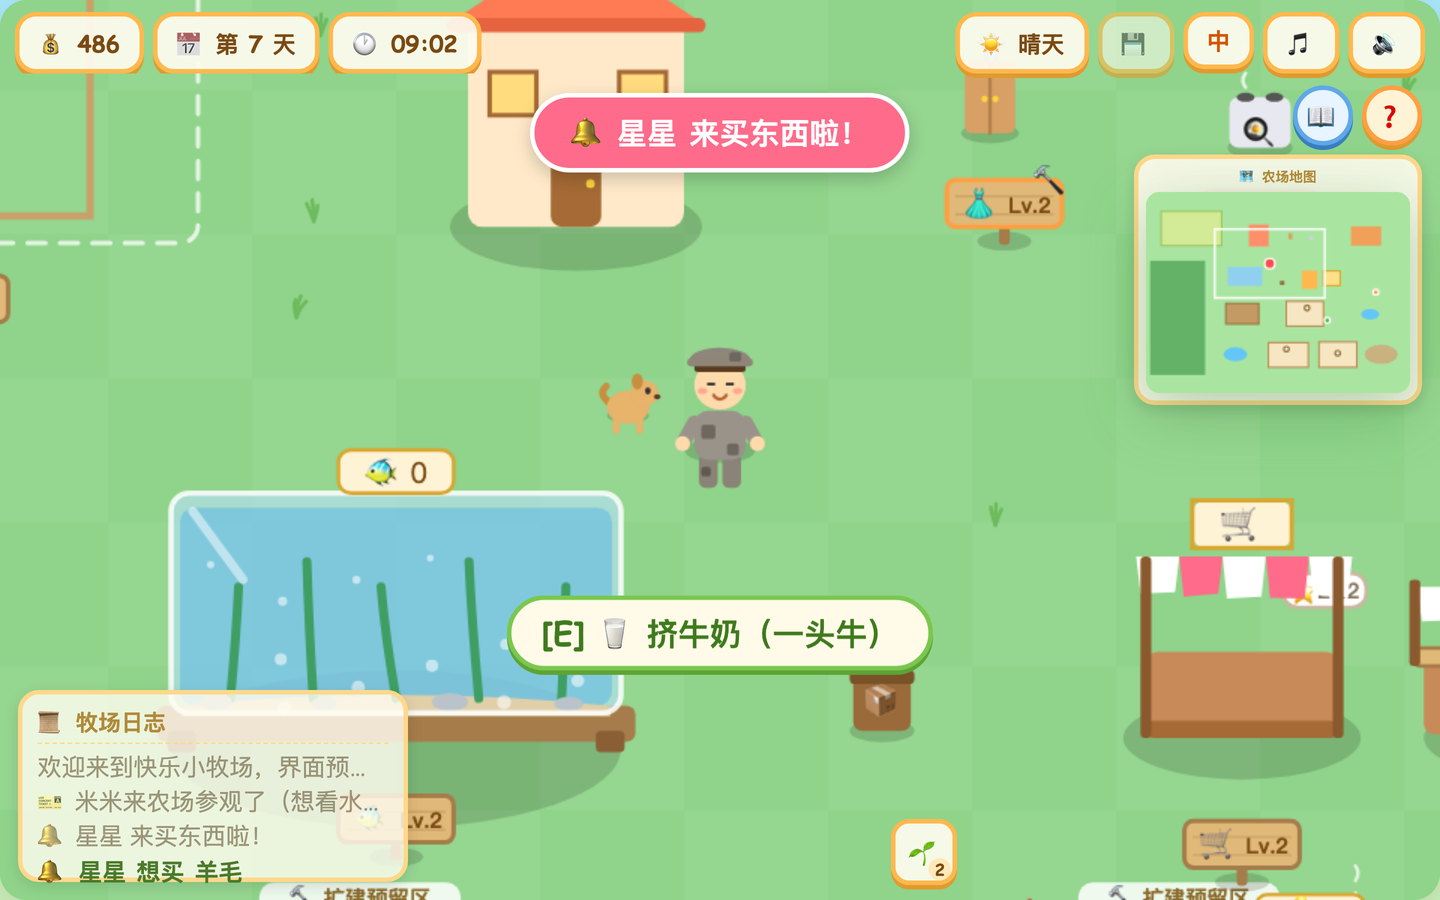
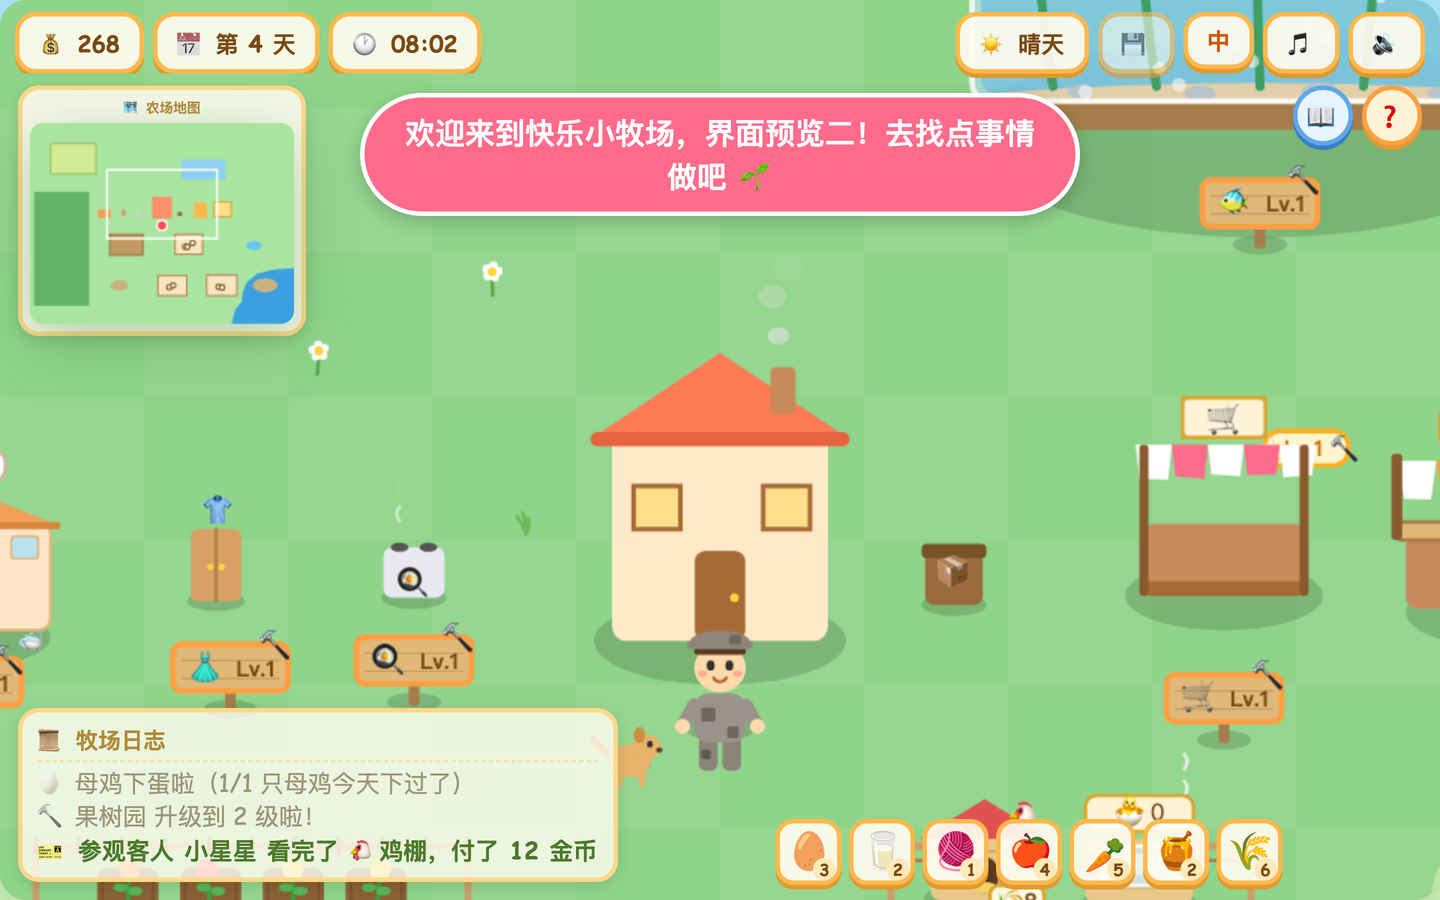
🗺 小地图挪到左上角 + 不再显示扩建预留区 / 白色虚线框
- 小地图从右上角搬到**左上角**（金币 / 天数 / 时间那一排下面），新增 #top-left 容器；
  📖 图鉴 / ❓ 帮助留在右上角不动。触摸版左上角是牧场日志，所以小地图自动待在右上角
- **所有设施的「扩建预留区」和白色虚线框都不再画出来**：去掉果园 / 鸡棚 / 羊棚 / 牛棚 /
  宠物家 / 农田 / 水族箱 7 处 drawExpandOutline 调用（drawExpandOutline 函数留着备用）。
  扩建位置照旧排好、互不重叠，升级之后占地直接变大，只是地图上不提前圈出来
- 验证：小地图实测在 (12,57)、在左半边且上半边，和 HUD 左右两栏 / 日志 / 图鉴 / 帮助都不重叠；
  1 级时沿着 7 个「本来会画框」的矩形四条边采样，白色虚线像素 0.0%（采样时避开小窝自己的白线条）；
  触摸版小地图在右上角、不和日志重叠；升级 / 面板 / 存读档 / 睡前任务都正常，控制台 0 报错

diff --git a/game.js b/game.js
@@ -6084,10 +6084,9 @@ function render() {
   for (let fx = fRect.x; fx <= fRect.x + fRect.w; fx += 24) {
     ctx.beginPath(); ctx.moveTo(fx, fRect.y - 4); ctx.lineTo(fx, fRect.y + 4); ctx.stroke();
   }
-  // 农田没有等级，直接把 3 级的大范围画出来当「预留升级区」
-  drawExpandOutline(ctx, FARM_RECTS[MAX_LV - 1], t, TXT('expandArea'));
+  // 农田没有等级（预留区也不再画出来了）
 
-  // 果树园：栅栏 + 「下次扩建到这里」的虚线预留区
+  // 果树园：栅栏
   const oRect = orchardRect();
   ctx.strokeStyle = '#c9a06a'; ctx.lineWidth = 4; ctx.lineCap = 'round';
   ctx.strokeRect(oRect.x, oRect.y, oRect.w, oRect.h);
@@ -6095,15 +6094,7 @@ function render() {
   for (let fx = oRect.x; fx <= oRect.x + oRect.w; fx += 26) {
     ctx.beginPath(); ctx.moveTo(fx, oRect.y - 4); ctx.lineTo(fx, oRect.y + 4); ctx.stroke();
   }
-  if (lvOf('orchard') < MAX_LV) {
-    drawExpandOutline(ctx, ORCHARD_RECTS[lvOf('orchard')], t, TXT('expandArea'));
-  }
-  // 其它设施的扩建预留区（围栏 / 水坑 / 宠物房间 / 水族箱 / 商店摊位）
-  if (lvOf('coop') < MAX_LV)    drawExpandOutline(ctx, PEN_RECTS.chicken[lvOf('coop')], t, TXT('expandArea'));
-  if (lvOf('sheep') < MAX_LV)   drawExpandOutline(ctx, PEN_RECTS.sheep[lvOf('sheep')], t, TXT('expandArea'));
-  if (lvOf('cow') < MAX_LV)     drawExpandOutline(ctx, PEN_RECTS.cow[lvOf('cow')], t, TXT('expandArea'));
-  if (lvOf('petroom') < MAX_LV) drawExpandOutline(ctx, PETROOM_RECTS[lvOf('petroom')], t, TXT('expandArea'));
-  if (lvOf('tank') < MAX_LV)    drawExpandOutline(ctx, tankRect(lvOf('tank') + 1), t, TXT('expandArea'));
+  // ★ 所有设施的「扩建预留区 / 白色虚线框」都不再画出来（升级照样能升，只是地图上不提前画框）
 
   // 池塘（没解锁的画成干土坑 + 🔒）；大海水蓝洞在大海里，画成更深的蓝洞
   for (const pond of PONDS) {

diff --git a/index.html b/index.html
@@ -314,15 +314,19 @@
         </div>
       </div>
 
-      <!-- 右上角：图鉴 / 帮助 + 小地图 -->
+      <!-- 左上角：小地图 -->
+      <div id="top-left">
+        <div id="minimap-box">
+          <div id="minimap-head" data-i18n="minimapTitle">🗺 农场地图</div>
+          <canvas id="minimap" width="176" height="134"></canvas>
+        </div>
+      </div>
+
+      <!-- 右上角：图鉴 / 帮助 -->
       <div id="top-right">
         <div class="top-btn-row">
           <button id="btn-book" title="动物图鉴" data-i18n-title="bookTitle">📖</button>
           <button id="btn-help" title="帮助" data-i18n-title="helpTitle">❓</button>
-        </div>
-        <div id="minimap-box">
-          <div id="minimap-head" data-i18n="minimapTitle">🗺 农场地图</div>
-          <canvas id="minimap" width="176" height="134"></canvas>
         </div>
       </div>
     </div>

diff --git a/style.css b/style.css
@@ -409,7 +409,15 @@ body.touch #prompt { left: 50%; max-width: 94%; bottom: 128px; }
 .char-row { align-items: center; }
 .char-label { font-size: 17px; font-weight: bold; color: #b08a3a; margin-right: 4px; }
 
-/* ---------- 图鉴 / 帮助按钮 + 小地图（统一放在右上角） ---------- */
+/* ---------- 小地图（左上角，HUD 那一排下面） ---------- */
+#top-left {
+  position: absolute; left: 12px; top: calc(62px * var(--ui-scale) + 14px); z-index: 26;
+  pointer-events: none;
+}
+/* 触摸版：左上角是牧场日志，小地图就待在右上角 */
+body.touch #top-left { left: auto; right: 12px; }
+
+/* ---------- 图鉴 / 帮助按钮（右上角） ---------- */
 #top-right {
   position: absolute; right: 12px; top: calc(62px * var(--ui-scale) + 14px); z-index: 26;
   display: flex; flex-direction: column; align-items: flex-end; gap: 6px;

diff --git a/sprites.js b/sprites.js
@@ -1838,6 +1838,7 @@ function drawPond(ctx, x, y, w, h, t, label, locked, needLv, deep) {
 
 // 「以后会扩到这里」的虚线框：1、2 级时把下一次扩建的范围画出来，
 // 地图上就一眼能看出「这里留着地方给它长大」。
+// 以前用来画「扩建预留区」的白色虚线框：现在地图上不再画预留区了（函数留着备用）
 function drawExpandOutline(ctx, rect, t, text) {
   if (!rect) return;
   ctx.save();

diff --git a/README.md b/README.md
@@ -32,7 +32,7 @@ python3 -m http.server 8000
 | 系统 | 说明 |
 |---|---|
 | ✏ 取名字 | 开始游戏前先写下自己的名字（最多 8 个字）；打开页面时会**随机生成一个三字以内的名字**（比如「小糖」「豆豆」），直接点开始就能玩。**一台电脑上每个名字一份独立存档**，兄弟姐妹各玩各的互不影响 |
-| 🔨 设施升级 | **十个设施各自 1~3 级**，升级后**地图上的占地真的变大**，能养 / 能钓 / 能做 / 能买的东西也更多。**每栋建筑正下方都有一块木牌**（十个设施完全统一），走到木牌前面按 E 就会「和木牌说话」：弹出来的面板上先写清楚**这栋建筑现在的状况**（养了几只 / 种了几棵 / 能做几道菜 / 开放到第几档…），再写**升级以后会变成什么样**，最后是升级按钮。木牌上写着 `Lv.N`，钱够的时候会闪一个小 🔨。地图上**已经预留好了每次扩建的位置**：1、2 级时会用**白色虚线框**画出「下次会扩到这里」（见下方「🔨 设施升级」表） |
+| 🔨 设施升级 | **十个设施各自 1~3 级**，升级后**地图上的占地真的变大**，能养 / 能钓 / 能做 / 能买的东西也更多。**每栋建筑正下方都有一块木牌**（十个设施完全统一），走到木牌前面按 E 就会「和木牌说话」：弹出来的面板上先写清楚**这栋建筑现在的状况**（养了几只 / 种了几棵 / 能做几道菜 / 开放到第几档…），再写**升级以后会变成什么样**，最后是升级按钮。木牌上写着 `Lv.N`，钱够的时候会闪一个小 🔨。地图上**已经排好了每次扩建的位置**（互不重叠），只是**地图上不再画白色虚线框**，升级之后占地直接长大 |
 | 🧒 纸娃娃换装 | 男孩/女孩可选，六个部位自由搭配（每个部位都按衣橱等级**分批开放**）：**帽子 10 件 · 头饰 12 件 · 裙子 12 件 · 上衣 9 件 · 裤子 10 件 · 鞋子 12 件**。初始只有「**破帽子 + 破衣服 + 破裤子**」，光着脚、不戴头饰也不穿裙子 |
 | 👗 开放式衣帽间 | 买到的衣服**自动挂进衣帽间**（买完会提示「已经挂进衣橱啦」）；衣帽间做成了**开放式衣帽间**的样子：左边一面试衣镜（**实时把角色画出来**），右边是分层的**挂衣杆（上衣/裙子）、帽子架、头饰架、抽屉（裤子）、鞋架**。**穿上裙子就不用再穿上衣和裤子**，回头选上衣或裤子时裙子会自动脱掉 |
 | 👧 女生的裙子与头饰 | **12 种裙子**：粉粉连衣裙、蓝点点裙、柠檬黄裙、牛仔背带裙、草莓小裙、向日葵裙、红格纹裙、彩虹蛋糕裙、公主蓬蓬裙、星空纱裙、蝴蝶仙子裙、白雪婚纱裙；**12 种漂亮头饰**：珍珠蝴蝶结、小花发夹、爱心发夹、星星发卡、彩虹发带、向日葵发卡、樱桃发夹、兔耳发箍、猫耳发箍、蝴蝶发饰、独角兽角、公主皇冠。**头饰和帽子可以同时戴**（小发夹画在帽子上面，发箍 / 耳朵 / 独角兽角画在帽子下面） |
@@ -78,12 +78,12 @@ python3 -m http.server 8000
 | 📖 动物图鉴 | **右上角**的 📖 按钮可查看「🦁 动物园」和「🐟 海洋馆」两个列表，动画图标显示收集进度（同一排的 ❓ 是帮助） |
 | 🎣 钓鱼 | **5 档大小水波纹**对应不同渔获，每档 3 种，共 **15 种鱼和海洋生物**（小鱼/小虾/贝壳 → 金鱼/螃蟹/鱿鱼 → 河豚/章鱼/龙虾 → 海龟/鳄鱼/海豹 → 海豚/鲨鱼/鲸鱼），水波纹越大钓到的越值钱；**鱼竿握在手里**，鱼线从竿尖甩出 |
 | 👦 换角色 | 衣帽间里可随时切换 **男孩 / 女孩**，宠物可换成 **小狗 / 小猫 / 小鸭 / 小鹅** |
-| 🎡 庭院装饰 | 商店可买 11 种装饰：大风车、圣诞树、樱花树、小喷泉、稻草人、长椅、路灯、花坛、栅栏、蘑菇、石头 —— 买好后走到喜欢的位置放下，风车会转、喷泉会喷水、樱花会飘落（按商店等级分三批开放）。地图上**特意留了 4 块浅色草坪空地**（边上有小花）就是给装饰留的；**白色虚线框里的「升级预留地」也照样能摆**（现在还是空草地）。**已经盖好的房子 / 围栏 / 农田 / 水族箱 / 水池上面放不下**（会提示「这里放不下，去那块空着的草地上试试～」）。★ 等以后真的升级扩建、建筑把预留地圈进去时，**压在上面的装饰会自动画在最外层**（在房子 / 围栏 / 树上面），不会被挡住、也不会消失 |
+| 🎡 庭院装饰 | 商店可买 11 种装饰：大风车、圣诞树、樱花树、小喷泉、稻草人、长椅、路灯、花坛、栅栏、蘑菇、石头 —— 买好后走到喜欢的位置放下，风车会转、喷泉会喷水、樱花会飘落（按商店等级分三批开放）。地图上**特意留了 4 块浅色草坪空地**（边上有小花）就是给装饰留的；**升级前那些「以后会被圈进去」的空地也能先摆**（现在还是空草地，不用管以后会扩到哪里）。**已经盖好的房子 / 围栏 / 农田 / 水族箱 / 水池上面放不下**（会提示「这里放不下，去那块空着的草地上试试～」）。★ 等以后真的升级扩建、建筑把预留地圈进去时，**压在上面的装饰会自动画在最外层**（在房子 / 围栏 / 树上面），不会被挡住、也不会消失 |
 | 🔊 音效 | 35+ 种合成音效覆盖所有动作；动物会随机叫，摸它还会回应你 |
 | 🛴 交通工具 | 商店新增「🛴 交通」页，可买 **滑板车（速度 ×1.55）**、**自行车（×1.95）**、**摩托车（×2.5）**；买回来走到**小屋旁的停车架**按 E 就能骑上（再按一次停下），骑上走得飞快 —— 车头永远朝着前进方向，不会倒着走；买过的车和正在骑的车都会存档（按商店等级逐个开放） |
 | 🎵 音乐 | 轻柔的背景音乐（可单独开关），和音效开关分开 |
-| 🗺 小地图 | **右上角有一张农场小地图**：森林 / 果园 / 农田 / 三个棚舍 / 各个水坑 / 房子用不同颜色画出来，**中间的红点是主角**，橙点是来买东西的客人、绿点是参观客人，白框是**现在画面能看到的那一块**。地图是实时画的，动物走动、水坑解锁、设施升级都会跟着变 |
-| 🖥 界面摆放 | **📖 图鉴 / ❓ 帮助搬到了右上角**（挨着小地图，从右下角挪上来的）；**📜 牧场日志放到左下角**（加宽到 400、高度加了约 3 行、长句自动换行）；物品栏排在日志右边那块空地上（东西多的时候最多 3 行），交互提示条也挪到日志右边居中，三者互不重叠。手机 / 平板上左下角是摇杆，日志就自动留在左上角，图鉴和帮助继续用右下角的触摸键 |
+| 🗺 小地图 | **左上角（状态栏下面）有一张农场小地图**：森林 / 果园 / 农田 / 三个棚舍 / 各个水坑 / 房子用不同颜色画出来，**中间的红点是主角**，橙点是来买东西的客人、绿点是参观客人，白框是**现在画面能看到的那一块**。地图是实时画的，动物走动、水坑解锁、设施升级都会跟着变 |
+| 🖥 界面摆放 | **🗺 小地图搬到左上角**（状态栏下面）、**📖 图鉴 / ❓ 帮助留在右上角**；**📜 牧场日志放到左下角**（加宽到 400、高度加了约 3 行、长句自动换行）；物品栏排在日志右边那块空地上（东西多的时候最多 3 行），交互提示条也挪到日志右边居中，三者互不重叠。手机 / 平板上左下角是摇杆，日志留在左上角、**小地图自动待在右上角**（免得和日志撞车），图鉴和帮助继续用右下角的触摸键 |
 | 🔍 看得更清楚 | **所有文字都调大了**（手机上也很好读）；画面整体放大 1.2 倍，**人物和动物都更大**；物品栏里的东西多了会自动缩小格子，永远只占一行 |
 
 ## 🗺 农场布局（四排）
@@ -92,9 +92,9 @@ python3 -m http.server 8000
 
 | | 从左往右 |
 |---|---|
-| **第一排** | 🍎 果园（预留升级区）· 🐠 **大水族箱**（果园右边的整片地方都是它的，1 级 320 宽 → 3 级 **860 宽**，升级预留区也用白色虚线框画出来） |
+| **第一排** | 🍎 果园 · 🐠 **大水族箱**（果园右边的整片地方都是它的，1 级 320 宽 → 3 级 **860 宽**） |
 | **第二排** | 🌳 森林 · 🐾 宠物家（小房子）· 👗 衣柜 · 🍳 厨房 · 🏠 主角家 · 📦 卖货箱 · 🛒 商店 · 💰 销售门面（**右边是客人排队的队伍**） |
-| **第三排** | 🌳 森林 · 🌱 农田（预留升级区）· 🐔 鸡棚（预留升级区）· 💧 小水坑 |
+| **第三排** | 🌳 森林 · 🌱 农田 · 🐔 鸡棚 · 💧 小水坑 |
 | **第四排** | 🌳 森林 · 💧 中水坑 · 🐑 羊棚 · 🐄 牛棚 · 💧 大海水蓝洞 → **右下角是一片连着大海的蓝色海水** |
 
 - **森林**是最左边那一列，从第二排一直铺到第四排，蜂蜜和蘑菇都在里面。
@@ -102,14 +102,15 @@ python3 -m http.server 8000
 - **🐠 大水族箱占掉第一排右边一整片**：1 级 320×130、2 级 570×190、3 级 **860×250**（比画面还宽），站在它**前面一整条边**按 E 都能看鱼、放鱼；里面的水草、石头、气泡、鱼都会跟着缸变大。
 - **右下角是大海**：从大海水蓝洞一路铺到地图的右下角（岸线是波浪形的沙滩），看起来是通到外面的海。走出去会被轻轻推回岸上，装饰也不能摆进海里。
 - 地图上**留了 4 块浅色草坪空地**给小朋友摆装饰；房子之间也还有空草地可以放小摆件。
-- **白色虚线框里的升级预留地也可以先摆装饰**；升级扩建把地圈进去以后，**装饰会画在最外层**（压在房子 / 围栏上面），不会看不见 —— 见 `assets/verify/decor-on-top.png` 的上下对比图。
+- **还没有盖到的地方都可以先摆装饰**；升级扩建把地圈进去以后，**装饰会画在最外层**（压在房子 / 围栏上面），不会看不见 —— 见 `assets/verify/decor-on-top.png` 的上下对比图。
+- **地图上不画扩建预留区、也不画白色虚线框**（升级一样能升，只是不提前圈出来）。
 - **升级木牌一律放在建筑外面**：围栏的牌子挂在围栏**底下**（不在动物活动的范围里）、水族箱的牌子在玻璃箱下面、果园 / 宠物房间的牌子也在各自围栏外面；而且牌子按**3 级扩到最大时**的位置留好，升级以后也不会被圈进围栏里。
 - 各建筑之间**互不重叠**（按 3 级最大范围算），每条排队位 / 每块木牌也都不压在建筑上：这些都用无头浏览器跑了几何检查。
 
 ## 🔨 设施升级（十个设施 × 三级）
 
 每个设施都是 **1 级 → 2 级 → 3 级**。升级之后 **① 地图上的占地真的变大**（每一次扩建的位置都提前排好了，互不重叠）
-**② 容量 / 能买的东西变多**。地图上 1、2 级时会用**白色虚线框**把「下次扩建的范围」画出来。
+**② 容量 / 能买的东西变多**。地图上**不提前画扩建预留区**，升级之后占地直接变大。
 
 | 设施 | 1 级 | 2 级 | 3 级 | 升级费用 |
 |---|---|---|---|---|
@@ -173,7 +174,7 @@ python3 -m http.server 8000
 
 1. **🔨 十个设施都能升级了**（鸡巢 / 羊棚 / 牛棚 / 果树园 / 水坑 / 商店 / 水族箱 / 厨房 / 衣橱 / 宠物房间），
    每个 1~3 级；**升级后地图上的占地真的变大**，能养 / 能钓 / 能做 / 能买的东西跟着变多。
-   地图上**提前预留好了每次扩建的位置**，1、2 级时还会用白色虚线框把「下次会扩到这里」画出来。
+   地图上**提前排好了每次扩建的位置**（互不重叠），但不画虚线预留框。
 2. **👗 衣橱变成了「开放式衣帽间」**：左边一面试衣镜（实时把角色画出来），右边是挂衣杆 / 帽子架 / 头饰架 / 抽屉 / 鞋架；
    **买到的衣服自动挂进去**。
 3. **🎀 新增女生的裙子与头饰**：**12 种裙子 + 12 种漂亮头饰**（还有 12 种鞋子），全部**按衣橱等级逐级开放**；
@@ -220,6 +221,9 @@ python3 -m http.server 8000
     老存档读进来会自动把主角送回小屋门口、动物送回自己的棚舍
     （存档版本 v1 → v2）。
 
+21. **🗺 小地图挪到左上角 + 不再显示扩建预留区**：小地图从右上角搬到**左上角**（金币 / 天数 / 时间那一排下面），
+    📖 图鉴 / ❓ 帮助留在右上角；**所有设施的「扩建预留区」和白色虚线框都不再画出来**了
+    （订好了的扩建位置照样存在，升级之后占地直接变大，只是地图上不提前圈出来）。
 20. **🧍 客人排队时间大幅加长**：以前客人等 25 秒就失望地走了，现在**只要天还没黑就一直排在队伍里等，
     最长可以等到当天结束（20:00）**；天黑了还在排队的客人今天先回家、第二天再来，天黑之后也不会再来新客人。
     实测 10:00 来的客人一直等到 19:59 都还在，20:00 才走；成交后队伍照样自动往前挪一格。
@@ -227,13 +231,13 @@ python3 -m http.server 8000
     **长句子不再用省略号截断，会自动折行**；内容底部对齐，写满时先把最旧的挤出去、**最新的一条永远看得见**。
     物品栏和交互提示条跟着让位到日志右边，实测三者互不重叠、也都没出画面。
 18. **🎡 升级预留地也能摆装饰，扩建后装饰画在最外层**：
-    白色虚线框里的升级预留地现在**是空草地、可以摆装饰**（以前留的边距太大，预留地几乎摆不下东西，现在只留一点点，
+    升级预留地（那时地图上还画着白色虚线框）现在**是空草地、可以摆装饰**（以前留的边距太大，预留地几乎摆不下东西，现在只留一点点，
     能摆的位置从 1152 处涨到 1408 处）；等设施升级扩建、建筑把预留地圈进去之后，
     **压在上面的装饰会自动画在最外层**（在房子 / 围栏 / 树上面），不会被挡住。
     已经盖好的建筑里面依旧放不下。
 17. **🗺 布局再调整：第一排只留果园 + 超大水族箱，右下角加了一片大海**：
     第一排 = 🍎 果园 ＋ 🐠 **水族箱**（果园右边整片都给它，3 级宽到 **860**，前面一整条边都能按 E，
-    升级预留区照样用白色虚线框画出来）；第二排排成一条小村子：
+    升级预留区那时还会画白色虚线框，后来去掉了 —— 见第 21 条）；第二排排成一条小村子：
     🌳森林 · 🐾宠物家 · 👗衣柜 · 🍳厨房 · 🏠主角家 · 📦卖货箱 · 🛒商店 · 💰销售门面（队伍在它右边）；
     **右下角从大海水蓝洞开始铺了一片蓝色的大海**（波浪沙滩岸线、浅水带、浪花和闪光，一直连到地图角上），
     大海水蓝洞变成海里的深蓝「蓝洞」；玩家、客人、观赏动物、装饰都不能进海里。
@@ -245,7 +249,7 @@ python3 -m http.server 8000
     三件都做到 100% 才点亮「😴 去睡觉」，点它才换天。
 
 > 附：本次验证截图在 `assets/verify/`（`bedtime-step1.png` / `bedtime-half.png` / `bedtime-done.png` = 睡前刷牙小游戏；
-> `farm-log.png` = 加宽加高、长句换行后的牧场日志；`decor-on-top.png` = 升级前 / 后在预留地摆的装饰（升级后画在最外层）；`pet-house-and-decor-patches.png` = 缩小后的宠物房和装饰空地；`sea-corner.png` = 右下角的大海；`layout-overview.png` = 新四排布局全地图总览；
+> `ui-layout.png` = 小地图在左上角、没有扩建虚线框的新界面；`farm-log.png` = 加宽加高、长句换行后的牧场日志；`decor-on-top.png` = 升级前 / 后在预留地摆的装饰（升级后画在最外层）；`pet-house-and-decor-patches.png` = 缩小后的宠物房和装饰空地；`sea-corner.png` = 右下角的大海；`layout-overview.png` = 新四排布局全地图总览；
 > `ui-layout.png` = 右上角小地图 / 图鉴帮助 + 左下角牧场日志的新界面；
 > `upgrade/` = 1 级与 3 级地图对比、升级面板、衣帽间四类、宠物房间、找零算式）。
 
